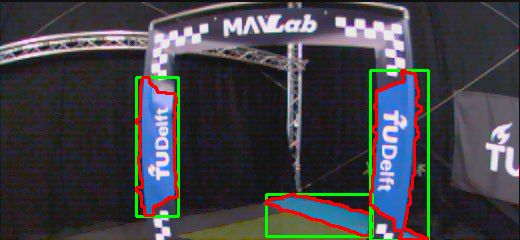
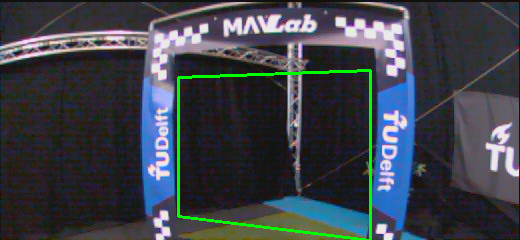
Gate_detection

diff --git a/Gate_detection/gate_detection.py b/Gate_detection/gate_detection.py
@@ -42,6 +42,7 @@ def draw_blue_regions(image: np.ndarray, mask: np.ndarray) -> np.ndarray:
 	"""Draw contours and bounding boxes around detected blue regions."""
 	output = image.copy()
 	contours, _ = cv2.findContours(mask, cv2.RETR_EXTERNAL, cv2.CHAIN_APPROX_SIMPLE)
+	valid_boxes: list[tuple[int, int, int, int]] = []
 
 	for contour in contours:
 		area = cv2.contourArea(contour)
@@ -49,8 +50,30 @@ def draw_blue_regions(image: np.ndarray, mask: np.ndarray) -> np.ndarray:
 			continue
 
 		x, y, w, h = cv2.boundingRect(contour)
+		if w >= h:
+			continue
+		valid_boxes.append((x, y, w, h))
+
+	if len(valid_boxes) == 2:
+		left_box, right_box = sorted(valid_boxes, key=lambda box: box[0])
+		left_inner_edge = left_box[0] + left_box[2]
+		right_inner_edge = right_box[0]
+
+		if right_inner_edge > left_inner_edge:
+			left_top = (left_inner_edge, left_box[1])
+			left_bottom = (left_inner_edge, left_box[1] + left_box[3])
+			right_top = (right_inner_edge, right_box[1])
+			right_bottom = (right_inner_edge, right_box[1] + right_box[3])
+
+			trapezoid = np.array(
+				[left_top, right_top, right_bottom, left_bottom],
+				dtype=np.int32,
+			)
+			cv2.polylines(output, [trapezoid], isClosed=True, color=(0, 255, 0), thickness=2)
+			return output
+
+	for x, y, w, h in valid_boxes:
 		cv2.rectangle(output, (x, y), (x + w, y + h), (0, 255, 0), 2)
-		cv2.drawContours(output, [contour], -1, (0, 0, 255), 2)
 
 	return output
 
